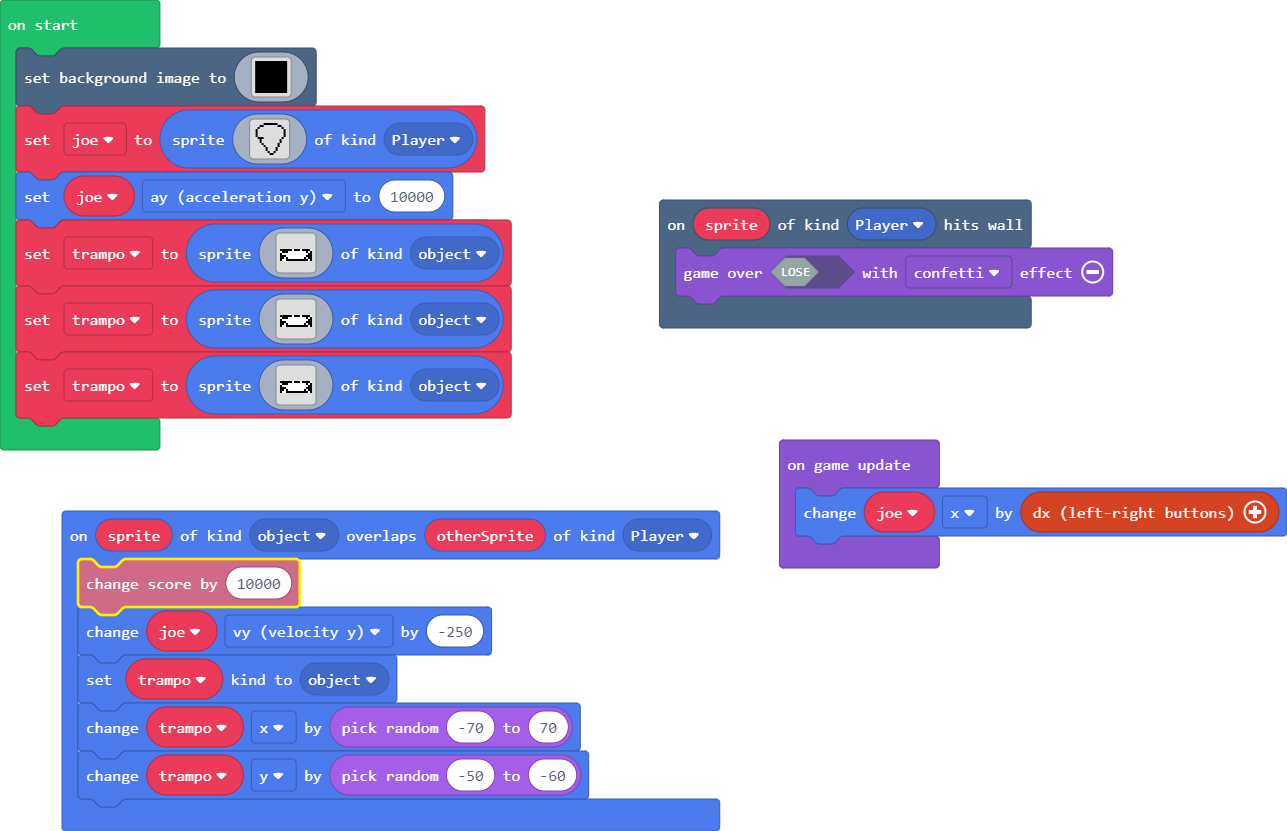
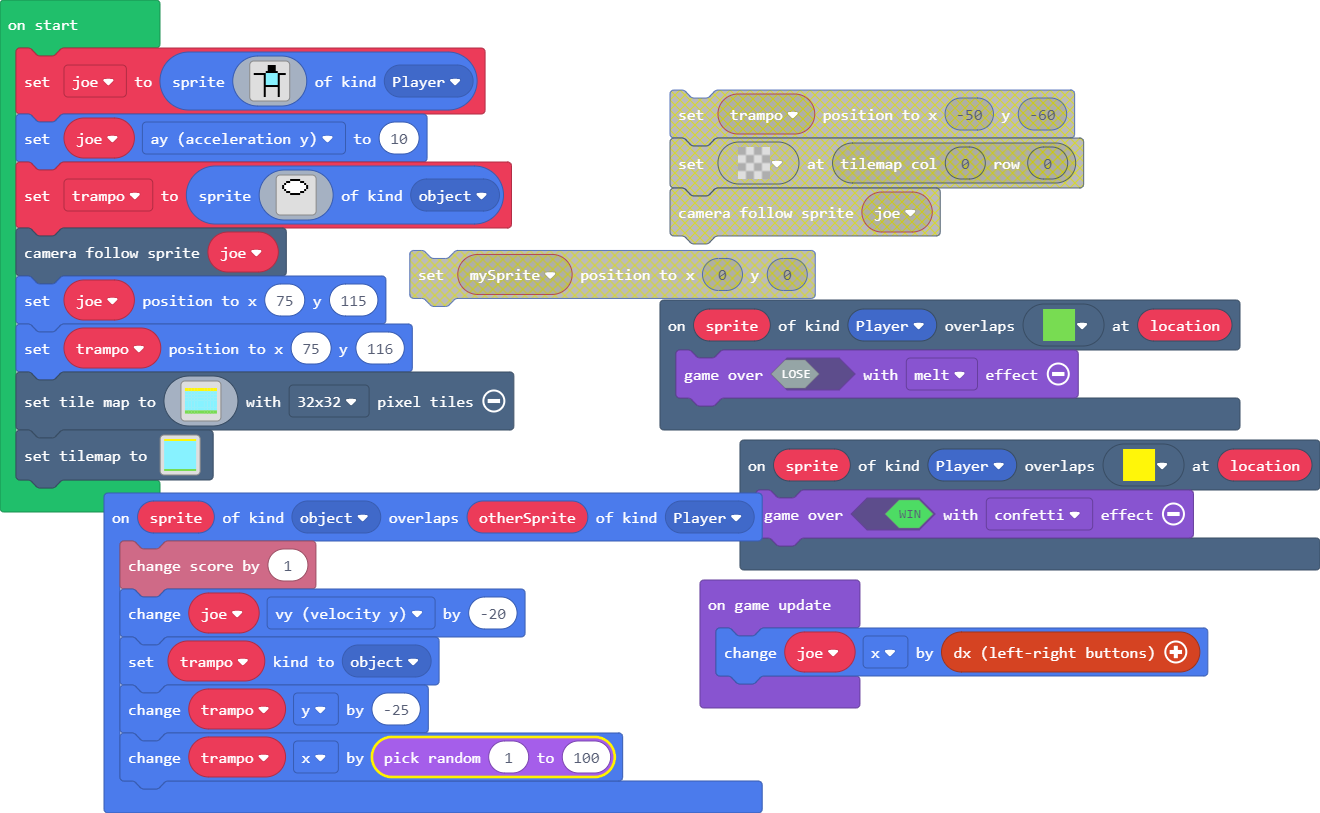
Update pxt.json, main.blocks, main.ts

diff --git a/main.ts b/main.ts
@@ -4,143 +4,207 @@ namespace SpriteKind {
 namespace myTiles {
     //% blockIdentity=images._tile
     export const tile0 = img`
-        . . . . . . . . . . . . . . . .
-        . . . . . . . . . . . . . . . .
-        . . . . . . . . . . . . . . . .
-        . . . . . . . . . . . . . . . .
-        . . . . . . . . . . . . . . . .
-        . . . . . . . . . . . . . . . .
-        . . . . . . . . . . . . . . . .
-        . . . . . . . . . . . . . . . .
-        . . . . . . . . . . . . . . . .
-        . . . . . . . . . . . . . . . .
-        . . . . . . . . . . . . . . . .
-        . . . . . . . . . . . . . . . .
-        . . . . . . . . . . . . . . . .
-        . . . . . . . . . . . . . . . .
-        . . . . . . . . . . . . . . . .
-        . . . . . . . . . . . . . . . .
-    `
+. . . . . . . . . . . . . . . . 
+. . . . . . . . . . . . . . . . 
+. . . . . . . . . . . . . . . . 
+. . . . . . . . . . . . . . . . 
+. . . . . . . . . . . . . . . . 
+. . . . . . . . . . . . . . . . 
+. . . . . . . . . . . . . . . . 
+. . . . . . . . . . . . . . . . 
+. . . . . . . . . . . . . . . . 
+. . . . . . . . . . . . . . . . 
+. . . . . . . . . . . . . . . . 
+. . . . . . . . . . . . . . . . 
+. . . . . . . . . . . . . . . . 
+. . . . . . . . . . . . . . . . 
+. . . . . . . . . . . . . . . . 
+. . . . . . . . . . . . . . . . 
+`
+    //% blockIdentity=images._tile
+    export const tile1 = img`
+7 7 7 7 7 7 7 7 7 7 7 7 7 7 7 7 
+7 7 7 7 7 7 7 7 7 7 7 7 7 7 7 7 
+7 7 7 7 7 7 7 7 7 7 7 7 7 7 7 7 
+7 7 7 7 7 7 7 7 7 7 7 7 7 7 7 7 
+7 7 7 7 7 7 7 7 7 7 7 7 7 7 7 7 
+7 7 7 7 7 7 7 7 7 7 7 7 7 7 7 7 
+7 7 7 7 7 7 7 7 7 7 7 7 7 7 7 7 
+7 7 7 7 7 7 7 7 7 7 7 7 7 7 7 7 
+7 7 7 7 7 7 7 7 7 7 7 7 7 7 7 7 
+7 7 7 7 7 7 7 7 7 7 7 7 7 7 7 7 
+7 7 7 7 7 7 7 7 7 7 7 7 7 7 7 7 
+7 7 7 7 7 7 7 7 7 7 7 7 7 7 7 7 
+7 7 7 7 7 7 7 7 7 7 7 7 7 7 7 7 
+7 7 7 7 7 7 7 7 7 7 7 7 7 7 7 7 
+7 7 7 7 7 7 7 7 7 7 7 7 7 7 7 7 
+7 7 7 7 7 7 7 7 7 7 7 7 7 7 7 7 
+`
+    //% blockIdentity=images._tile
+    export const tile2 = img`
+9 9 9 9 9 9 9 9 9 9 9 9 9 9 9 9 
+9 9 9 9 9 9 9 9 9 9 9 9 9 9 9 9 
+9 9 9 9 9 9 9 9 9 9 9 9 9 9 9 9 
+9 9 9 9 9 9 9 9 9 9 9 9 9 9 9 9 
+9 9 9 9 9 9 9 9 9 9 9 9 9 9 9 9 
+9 9 9 9 9 9 9 9 9 9 9 9 9 9 9 9 
+9 9 9 9 9 9 9 9 9 9 9 9 9 9 9 9 
+9 9 9 9 9 9 9 9 9 9 9 9 9 9 9 9 
+9 9 9 9 9 9 9 9 9 9 9 9 9 9 9 9 
+9 9 9 9 9 9 9 9 9 9 9 9 9 9 9 9 
+9 9 9 9 9 9 9 9 9 9 9 9 9 9 9 9 
+9 9 9 9 9 9 9 9 9 9 9 9 9 9 9 9 
+9 9 9 9 9 9 9 9 9 9 9 9 9 9 9 9 
+9 9 9 9 9 9 9 9 9 9 9 9 9 9 9 9 
+9 9 9 9 9 9 9 9 9 9 9 9 9 9 9 9 
+9 9 9 9 9 9 9 9 9 9 9 9 9 9 9 9 
+`
+    //% blockIdentity=images._tile
+    export const tile3 = img`
+5 5 5 5 5 5 5 5 5 5 5 5 5 5 5 5 
+3 3 3 3 3 3 3 3 3 3 3 3 3 3 3 3 
+3 3 3 3 3 3 3 3 3 3 3 3 3 3 3 3 
+3 3 3 3 3 3 3 3 3 3 3 3 3 3 3 3 
+3 3 3 3 3 3 3 3 3 3 3 3 3 3 3 3 
+3 3 3 3 3 3 3 3 3 3 3 3 3 3 3 3 
+3 3 3 3 3 3 3 3 3 3 3 3 3 3 3 3 
+3 3 3 3 3 3 3 3 3 3 3 3 3 3 3 3 
+3 3 3 3 3 3 3 3 3 3 3 3 3 3 3 3 
+3 3 3 3 3 3 3 3 3 3 3 3 3 3 3 3 
+3 3 3 3 3 3 3 3 3 3 3 3 3 3 3 3 
+3 3 3 3 3 3 3 3 3 3 3 3 3 3 3 3 
+3 3 3 3 3 3 3 3 3 3 3 3 3 3 3 3 
+3 3 3 3 3 3 3 3 3 3 3 3 3 3 3 3 
+3 3 3 3 3 3 3 3 3 3 3 3 3 3 3 3 
+2 2 2 2 2 2 2 2 2 2 2 2 2 2 2 2 
+`
+    //% blockIdentity=images._tile
+    export const tile4 = img`
+5 5 5 5 5 5 5 5 5 5 5 5 5 5 5 5 
+5 5 5 5 5 5 5 5 5 5 5 5 5 5 5 5 
+5 5 5 5 5 5 5 5 5 5 5 5 5 5 5 5 
+5 5 5 5 5 5 5 5 5 5 5 5 5 5 5 5 
+5 5 5 5 5 5 5 5 5 5 5 5 5 5 5 5 
+5 5 5 5 5 5 5 5 5 5 5 5 5 5 5 5 
+5 5 5 5 5 5 5 5 5 5 5 5 5 5 5 5 
+5 5 5 5 5 5 5 5 5 5 5 5 5 5 5 5 
+5 5 5 5 5 5 5 5 5 5 5 5 5 5 5 5 
+5 5 5 5 5 5 5 5 5 5 5 5 5 5 5 5 
+5 5 5 5 5 5 5 5 5 5 5 5 5 5 5 5 
+5 5 5 5 5 5 5 5 5 5 5 5 5 5 5 5 
+5 5 5 5 5 5 5 5 5 5 5 5 5 5 5 5 
+5 5 5 5 5 5 5 5 5 5 5 5 5 5 5 5 
+5 5 5 5 5 5 5 5 5 5 5 5 5 5 5 5 
+5 5 5 5 5 5 5 5 5 5 5 5 5 5 5 5 
+`
+    //% blockIdentity=images._tile
+    export const tile5 = img`
+. . . . . . . . . . . . . . . . 
+. . . . . . . . . . . . . . . . 
+. . . . . . . . . . . . . . . . 
+. . . . . . . . . . . . . . . . 
+. . . . . . . . . . . . . . . . 
+. . . . . . . . . . . . . . . . 
+. . . . . . . . . . . . . . . . 
+. . . . . . . . . . . . . . . . 
+. . . . . . . . . . . . . . . . 
+. . . . . . . . . . . . . . . . 
+. . . . . . . . . . . . . . . . 
+. . . . . . . . . . . . . . . . 
+. . . . . . . . . . . . . . . . 
+. . . . . . . . . . . . . . . . 
+. . . . . . . . . . . . . . . . 
+. . . . . . . . . . . . . . . . 
+`
 }
-scene.onHitWall(SpriteKind.Player, function (sprite) {
-    game.over(false, effects.confetti)
+scene.onOverlapTile(SpriteKind.Player, myTiles.tile1, function (sprite, location) {
+    game.over(false, effects.melt)
+})
+scene.onOverlapTile(SpriteKind.Player, myTiles.tile4, function (sprite, location) {
+    game.over(true, effects.confetti)
 })
 sprites.onOverlap(SpriteKind.object, SpriteKind.Player, function (sprite, otherSprite) {
-    info.changeScoreBy(10000)
-    joe.vy += -250
+    info.changeScoreBy(1)
+    joe.vy += -20
     trampo.setKind(SpriteKind.object)
-    trampo.x += Math.randomRange(-70, 70)
-    trampo.y += Math.randomRange(-50, -60)
+    trampo.y += -25
+    trampo.x += Math.randomRange(1, 100)
 })
 let trampo: Sprite = null
 let joe: Sprite = null
-scene.setBackgroundImage(img`
-    f f f f f f f f f f f f f f f f f f f f f f f f f f f f f f f f
-    f f f f f f f f f f f f f f f f f f f f f f f f f f f f f f f f
-    f f f f f f f f f f f f f f f f f f f f f f f f f f f f f f f f
-    f f f f f f f f f f f f f f f f f f f f f f f f f f f f f f f f
-    f f f f f f f f f f f f f f f f f f f f f f f f f f f f f f f f
-    f f f f f f f f f f f f f f f f f f f f f f f f f f f f f f f f
-    f f f f f f f f f f f f f f f f f f f f f f f f f f f f f f f f
-    f f f f f f f f f f f f f f f f f f f f f f f f f f f f f f f f
-    f f f f f f f f f f f f f f f f f f f f f f f f f f f f f f f f
-    f f f f f f f f f f f f f f f f f f f f f f f f f f f f f f f f
-    f f f f f f f f f f f f f f f f f f f f f f f f f f f f f f f f
-    f f f f f f f f f f f f f f f f f f f f f f f f f f f f f f f f
-    f f f f f f f f f f f f f f f f f f f f f f f f f f f f f f f f
-    f f f f f f f f f f f f f f f f f f f f f f f f f f f f f f f f
-    f f f f f f f f f f f f f f f f f f f f f f f f f f f f f f f f
-    f f f f f f f f f f f f f f f f f f f f f f f f f f f f f f f f
-    f f f f f f f f f f f f f f f f f f f f f f f f f f f f f f f f
-    f f f f f f f f f f f f f f f f f f f f f f f f f f f f f f f f
-    f f f f f f f f f f f f f f f f f f f f f f f f f f f f f f f f
-    f f f f f f f f f f f f f f f f f f f f f f f f f f f f f f f f
-    f f f f f f f f f f f f f f f f f f f f f f f f f f f f f f f f
-    f f f f f f f f f f f f f f f f f f f f f f f f f f f f f f f f
-    f f f f f f f f f f f f f f f f f f f f f f f f f f f f f f f f
-    f f f f f f f f f f f f f f f f f f f f f f f f f f f f f f f f
-    f f f f f f f f f f f f f f f f f f f f f f f f f f f f f f f f
-    f f f f f f f f f f f f f f f f f f f f f f f f f f f f f f f f
-    f f f f f f f f f f f f f f f f f f f f f f f f f f f f f f f f
-    f f f f f f f f f f f f f f f f f f f f f f f f f f f f f f f f
-    f f f f f f f f f f f f f f f f f f f f f f f f f f f f f f f f
-    f f f f f f f f f f f f f f f f f f f f f f f f f f f f f f f f
-    f f f f f f f f f f f f f f f f f f f f f f f f f f f f f f f f
-    f f f f f f f f f f f f f f f f f f f f f f f f f f f f f f f f
-`)
 joe = sprites.create(img`
-    . . . . . f f f f f f f . . . .
-    . . . f f . . . . . . . f f . .
-    . . f . . . . . . . . . . . f .
-    . f . . . . . . . . . . . . . f
-    . f . . . . . . . . . . . . . f
-    . f . . . . . . . . . . . . . f
-    . f . . . . . . . . . . . . . f
-    . . f f f . . . . . . . . . f .
-    . . . f . . . . . . . . . f . .
-    . . . f . . . . . . . . . f . .
-    . . . . f . . . . . . . f . . .
-    . . . . . f . . . . . . f . . .
-    . . . . . . f . . . . f . . . .
-    . . . . . . f . . . . f . . . .
-    . . . . . . . f . . f . . . . .
-    . . . . . . . . f f . . . . . .
+. . . . . . . f f f f . . . . . 
+. . . . . . . f f f f . . . . . 
+. . . . . . . f f f f . . . . . 
+. . . . . . f f f f f f . . . . 
+f f f f f f 9 9 9 9 9 9 f f f f 
+. . . . . f 9 9 9 9 9 9 f . . . 
+. . . . . f 9 9 9 9 9 9 f . . . 
+. . . . . f 9 9 9 9 9 9 f . . . 
+. . . . . f 9 9 9 9 9 9 f . . . 
+. . . . . f 9 9 9 9 9 9 f . . . 
+. . . . . f f f f f f f f . . . 
+. . . . . f . . . . . . f . . . 
+. . . . . f . . . . . . f . . . 
+. . . . . f . . . . . . f . . . 
+. . . . . f . . . . . . f . . . 
+. . . . . f . . . . . . f . . . 
 `, SpriteKind.Player)
-joe.ay = 10000
+joe.ay = 10
 trampo = sprites.create(img`
-    . . . . . . . . . . . . . . . .
-    . . . . . . . . . . . . . . . .
-    . . . . . . . . . . . . . . . .
-    . . . . . . . . . . . . . . . .
-    . . . . . . . . . . . . . . . .
-    . . . . . . . . . . . . . . . .
-    f f f f f f 1 f f f 1 f f f f 1
-    1 f f f 1 1 1 1 1 1 1 1 1 f 1 f
-    f 1 1 1 1 1 1 1 1 1 1 1 1 1 f f
-    f f f 1 1 1 1 1 1 1 1 1 1 f f f
-    f f 1 f 1 1 1 1 1 1 1 1 f 1 f f
-    f 1 1 f f f f f f f f f f f 1 f
-    . . . . . . . . . . . . . . . .
-    . . . . . . . . . . . . . . . .
-    . . . . . . . . . . . . . . . .
-    . . . . . . . . . . . . . . . .
+. . . . . f f f f f . . . . . . 
+. . . f f 1 1 1 1 1 f f . . . . 
+. . f 1 1 1 1 1 1 1 1 1 f . . . 
+. f 1 1 1 1 1 1 1 1 1 1 1 f . . 
+. f 1 1 1 1 1 1 1 1 1 1 1 f . . 
+. . f 1 1 1 1 1 1 1 1 1 f . . . 
+. . . f f 1 1 1 1 1 f f . . . . 
+. . . . . f f f f f . . . . . . 
+. . . . . . . . . . . . . . . . 
+. . . . . . . . . . . . . . . . 
+. . . . . . . . . . . . . . . . 
+. . . . . . . . . . . . . . . . 
+. . . . . . . . . . . . . . . . 
+. . . . . . . . . . . . . . . . 
+. . . . . . . . . . . . . . . . 
+. . . . . . . . . . . . . . . . 
 `, SpriteKind.object)
-trampo = sprites.create(img`
-    . . . . . . . . . . . . . . . .
-    . . . . . . . . . . . . . . . .
-    . . . . . . . . . . . . . . . .
-    . . . . . . . . . . . . . . . .
-    . . . . . . . . . . . . . . . .
-    . . . . . . . . . . . . . . . .
-    f f f f f f 1 f f f 1 f f f f 1
-    1 f f f 1 1 1 1 1 1 1 1 1 f 1 f
-    f 1 1 1 1 1 1 1 1 1 1 1 1 1 f f
-    f f f 1 1 1 1 1 1 1 1 1 1 f f f
-    f f 1 f 1 1 1 1 1 1 1 1 f 1 f f
-    f 1 1 f f f f f f f f f f f 1 f
-    . . . . . . . . . . . . . . . .
-    . . . . . . . . . . . . . . . .
-    . . . . . . . . . . . . . . . .
-    . . . . . . . . . . . . . . . .
-`, SpriteKind.object)
-trampo = sprites.create(img`
-    . . . . . . . . . . . . . . . .
-    . . . . . . . . . . . . . . . .
-    . . . . . . . . . . . . . . . .
-    . . . . . . . . . . . . . . . .
-    . . . . . . . . . . . . . . . .
-    . . . . . . . . . . . . . . . .
-    f f f f f f 1 f f f 1 f f f f 1
-    1 f f f 1 1 1 1 1 1 1 1 1 f 1 f
-    f 1 1 1 1 1 1 1 1 1 1 1 1 1 f f
-    f f f 1 1 1 1 1 1 1 1 1 1 f f f
-    f f 1 f 1 1 1 1 1 1 1 1 f 1 f f
-    f 1 1 f f f f f f f f f f f 1 f
-    . . . . . . . . . . . . . . . .
-    . . . . . . . . . . . . . . . .
-    . . . . . . . . . . . . . . . .
-    . . . . . . . . . . . . . . . .
-`, SpriteKind.object)
+scene.cameraFollowSprite(joe)
+joe.setPosition(75, 115)
+trampo.setPosition(75, 116)
+scene.setTileMap(img`
+5 5 5 5 5 5 5 5 5 5 
+9 9 9 9 9 9 9 9 9 9 
+9 9 9 9 9 9 9 9 9 9 
+9 9 9 9 9 9 9 9 9 9 
+9 9 9 9 9 9 9 9 9 9 
+9 9 9 9 9 9 9 9 9 9 
+9 9 9 9 9 9 9 9 9 9 
+7 7 7 7 7 7 7 7 7 7 
+`, TileScale.ThirtyTwo)
+tiles.setTilemap(tiles.createTilemap(
+            hex`1000100004040404040404040404040404040404020202020202020202020202020202020202020202020202020202020202020202020202020202020202020202020202020202020202020202020202020202020202020202020202020202020202020202020202020202020202020202020202020202020202020202020202020202020202020202020202020202020202020202020202020202020202020202020202020202020202020202020202020202020202020202020202020202020202020202020202020202020202020202020202020202020202020202020202020202020202020202020202020202020202020201010101010101010101010101010101`,
+            img`
+. . . . . . . . . . . . . . . . 
+. . . . . . . . . . . . . . . . 
+. . . . . . . . . . . . . . . . 
+. . . . . . . . . . . . . . . . 
+. . . . . . . . . . . . . . . . 
+. . . . . . . . . . . . . . . . 
+. . . . . . . . . . . . . . . . 
+. . . . . . . . . . . . . . . . 
+. . . . . . . . . . . . . . . . 
+. . . . . . . . . . . . . . . . 
+. . . . . . . . . . . . . . . . 
+. . . . . . . . . . . . . . . . 
+. . . . . . . . . . . . . . . . 
+. . . . . . . . . . . . . . . . 
+. . . . . . . . . . . . . . . . 
+. . . . . . . . . . . . . . . . 
+`,
+            [myTiles.tile0,myTiles.tile1,myTiles.tile2,myTiles.tile3,myTiles.tile4,myTiles.tile5],
+            TileScale.Sixteen
+        ))
 game.onUpdate(function () {
     joe.x += controller.dx()
 })
